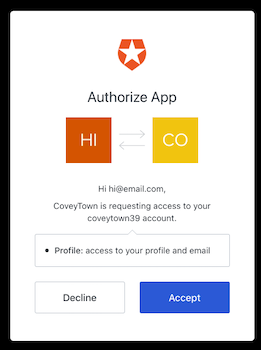
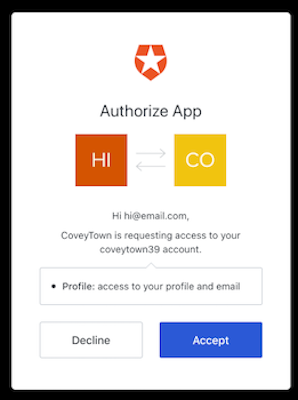
Image size changes and formats

diff --git a/FEATURES.md b/FEATURES.md
@@ -11,12 +11,16 @@ Click Login on the top right which will direct you to Auth0.
 
 ![Auth0-Page](docs/auth0-page.png)
 
-1. New Account
-   Enter email and new password.
+1. New Account (Enter email and new password.)
+
    ![Signup-New-Account](docs/signup-new-account.png) ![Allow-For-Authorization](docs/allow-for-authorization.png)
+
 2. Existing Account (Click continue after entering email and password.)
+
    ![Existing-Account](docs/signup-new-account.png)
+
 3. Google sign-in (You may see either)
+
    ![Google-Credentials](docs/google-credentials.png) Or: ![Email-List](docs/email-list.jpg)
 
 ### After login, you should see the main page:
@@ -27,9 +31,11 @@ Click Login on the top right which will direct you to Auth0.
 
 Initial Profile is created when signing up or joining through Google with username and email immutable.
 You can create and update a profile seen below by clicking edit and then save.
+
 ![Updating-Profile](docs/updating-profile.png) ![Profile-Updated](docs/profile-updated.png)
 
 Click delete if you want to delete your user/user profile.
+
 ![Confirm-Delete](docs/confirm-delete.png) ![Deleted-Redirect-Message](docs/deleted-redirect-message.png)
 
 ### You may now join a town or create a new town OR create/join a town without modifying your user profile.
